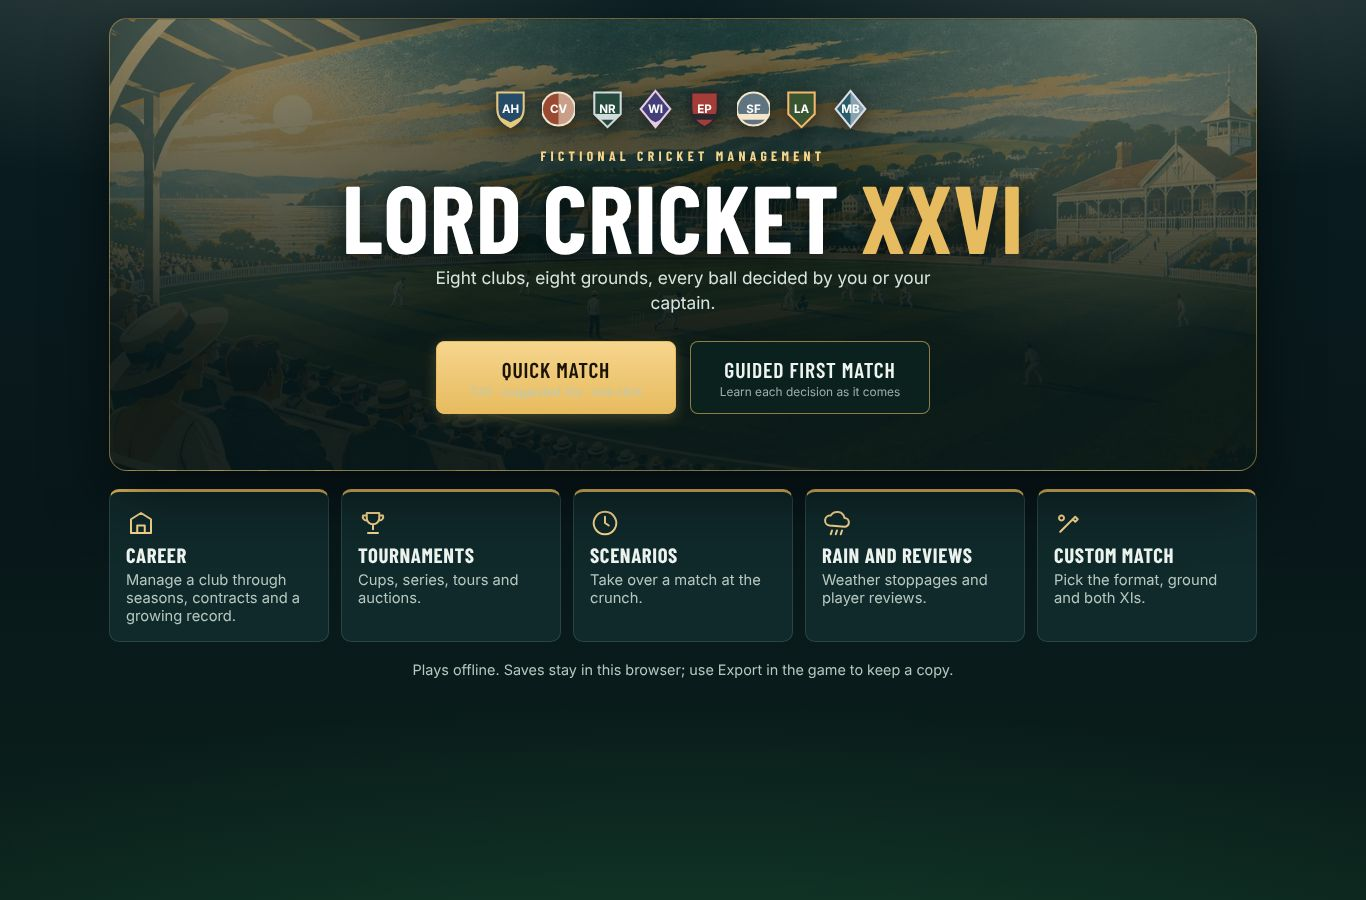
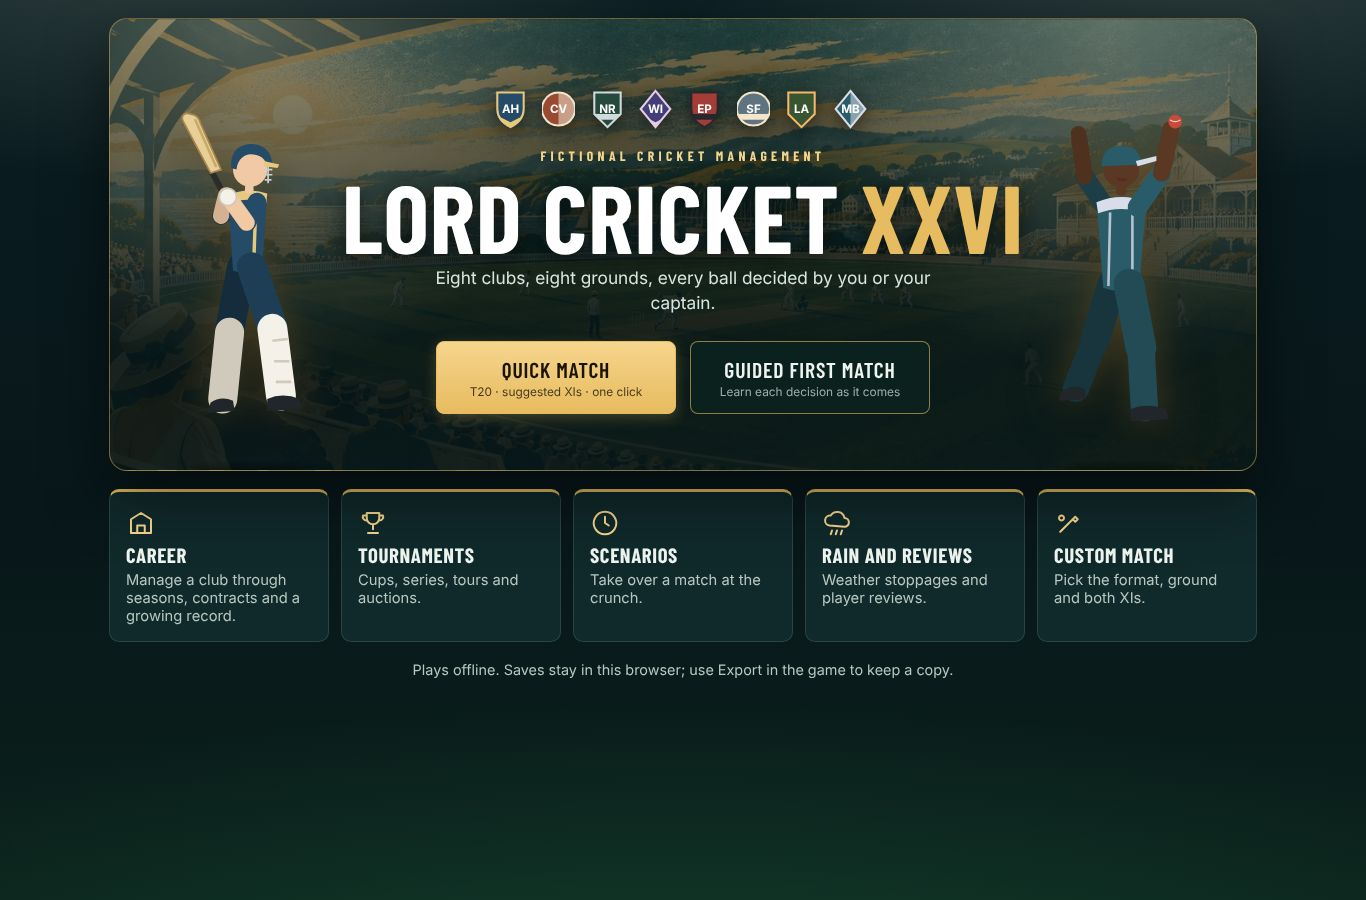
Free, code-drawn art: cricketer figures in club kits and richer procedural grounds
Owner order of 20 November 2026, step 3, under the owner's rule that everything stays free
and AI-made in the project.

- CricketerFigure: original full-figure cricketers drawn as SVG (a batter at the top of the
  backlift, a bowler celebrating a wicket) in any club's kit colours, with a darker far
  side for depth. Shown either side of the title screen and, faint, behind the player on
  the block in the auction room, in the spirit of the owner's reference menus without
  copying its layout or art.
- Procedural grounds gain a crowd in every stand, roof canopies, stars and soft light cones
  from the floodlights. Still drawn once per ground and turned into a WebP, so the extra
  detail costs nothing per ball.

Tests: tests/unit/cricketer-figure.test.ts (2); ground-art tests still pass. Browser specs
for tournaments (auction), title, scenarios, accessibility and pitch inspection pass in
Chromium (15).

Claude-Session: https://claude.ai/code/session_01JUtpt8sfBb8fADukiUJLPG

Changed region(s): [[0.7687, 0.1244, 0.8609, 0.4667], [0.123, 0.1244, 0.2152, 0.4667], [0.369, 0.4356, 0.3997, 0.4667]]

diff --git a/apps/web/src/world/CricketerFigure.tsx b/apps/web/src/world/CricketerFigure.tsx
@@ -1,0 +1,132 @@
+import { useId } from "react";
+
+/**
+ * Full-figure cricketers for menus (owner order of 20 November 2026, step 3: free, AI-made art). Original stylised
+ * vector figures in a club's kit colours: a batter at the top of the backlift and a bowler celebrating a wicket. Drawn
+ * from limbs as thick round-capped strokes with a darker shade for the far side, so they read as sports-poster
+ * pictograms rather than imitations of any real player or game. Always decorative.
+ */
+export type FigurePose = "batter" | "bowler";
+
+const SKINS = ["#f1c9a5", "#e0ac83", "#c68b5f", "#a86e45", "#7d4f30", "#5a3824"] as const;
+const HEX = /^#[0-9a-f]{6}$/i;
+
+function shade(hex: string, amount: number): string {
+  const n = parseInt(hex.slice(1), 16);
+  const f = (c: number) => Math.max(0, Math.min(255, Math.round(c * (1 + amount))));
+  const r = f((n >> 16) & 255), g = f((n >> 8) & 255), b = f(n & 255);
+  return `#${((1 << 24) | (r << 16) | (g << 8) | b).toString(16).slice(1)}`;
+}
+
+function seeded(seed: string): number {
+  let h = 0x811c9dc5;
+  for (let i = 0; i < seed.length; i += 1) h = Math.imul(h ^ seed.charCodeAt(i), 0x01000193) >>> 0;
+  return h;
+}
+
+type Limb = [number, number, number, number, number];
+const limb = ([x1, y1, x2, y2, w]: Limb, colour: string, key: string) => (
+  <line key={key} x1={x1} y1={y1} x2={x2} y2={y2} stroke={colour} strokeWidth={w} strokeLinecap="round" />
+);
+
+export function CricketerFigure(props: { pose: FigurePose; kit: readonly string[]; seed?: string; height?: number; className?: string }) {
+  const shirt = props.kit[0] && HEX.test(props.kit[0]) ? props.kit[0] : "#1f5a4a";
+  const trim = props.kit[1] && HEX.test(props.kit[1]) ? props.kit[1] : "#e7bb5f";
+  const skin = SKINS[seeded(props.seed ?? props.pose) % SKINS.length]!;
+  const far = shade(shirt, -0.32);
+  const trousers = shade(shirt, -0.18);
+  const trousersFar = shade(shirt, -0.42);
+  const id = useId();
+  const glow = `cf-glow-${id}`;
+  const height = props.height ?? 360;
+  return (
+    <svg className={props.className ?? "cricketer-figure"} viewBox="0 -24 240 444" width={(height * 240) / 444} height={height} aria-hidden="true" focusable="false">
+      <defs>
+        <radialGradient id={glow} cx="50%" cy="100%" r="60%">
+          <stop offset="0%" stopColor="#000" stopOpacity="0.45" />
+          <stop offset="100%" stopColor="#000" stopOpacity="0" />
+        </radialGradient>
+      </defs>
+      <ellipse cx="124" cy="404" rx="86" ry="12" fill={`url(#${glow})`} />
+      {props.pose === "batter" ? <Batter {...{ shirt, trim, skin, far, trousers, trousersFar }} /> : <Bowler {...{ shirt, trim, skin, far, trousers, trousersFar }} />}
+    </svg>
+  );
+}
+
+type Paint = { shirt: string; trim: string; skin: string; far: string; trousers: string; trousersFar: string };
+
+/** A right-hander at the top of the backlift, side-on, front shoulder pointing down the pitch (to the right). */
+function Batter({ shirt, trim, skin, far, trousers, trousersFar }: Paint) {
+  const pad = "#f4f1e8", padShade = "#cfcabb", glove = "#f4f1e8";
+  return (
+    <g>
+      {/* Bat, held high behind the head. */}
+      <line x1="96" y1="96" x2="80" y2="66" stroke="#2b2b2b" strokeWidth="7" strokeLinecap="round" />
+      <path d="M78 66 L46 6 Q42 -2 50 -4 L58 -2 Q64 0 66 8 L90 62 Z" fill="#e8cf98" stroke="#a9874c" strokeWidth="2" />
+      <path d="M60 4 L84 58" stroke="#c9a96a" strokeWidth="3" strokeLinecap="round" />
+      {/* Back (far) leg and pad. */}
+      {limb([114, 176, 100, 250, 34], trousersFar, "bt")}
+      {limb([100, 252, 92, 330, 34], padShade, "bp")}
+      <path d="M78 334 Q90 326 104 332 L106 344 L74 346 Z" fill="#20262a" />
+      {/* Back arm. */}
+      {limb([112, 100, 90, 116, 21], far, "ba1")}
+      {limb([90, 116, 96, 92, 19], shade(skin, -0.12), "ba2")}
+      {/* Torso. */}
+      <path d="M98 92 Q120 82 144 90 L138 180 Q120 188 104 180 Z" fill={shirt} />
+      <path d="M98 92 Q120 82 144 90 L143 101 Q120 93 99 102 Z" fill={trim} />
+      <path d="M131 92 L128 178" stroke={trim} strokeWidth="4" />
+      {/* Front leg and pad. */}
+      {limb([126, 176, 150, 246, 35], trousers, "ft")}
+      {limb([150, 248, 160, 326, 35], pad, "fp")}
+      <path d="M150 262 L168 260 M152 286 L170 286 M154 310 L172 310" stroke={padShade} strokeWidth="3" />
+      <path d="M144 330 Q162 322 182 330 L184 342 L144 344 Z" fill="#20262a" />
+      {/* Front arm across the chest to the handle. */}
+      {limb([132, 100, 120, 124, 22], shirt, "fa1")}
+      {limb([120, 124, 100, 96, 19], skin, "fa2")}
+      <circle cx="98" cy="94" r="10" fill={glove} stroke={padShade} strokeWidth="2" />
+      {/* Head and helmet, facing the bowler. */}
+      <circle cx="124" cy="62" r="20" fill={skin} />
+      <path d="M102 60 Q100 34 124 32 Q148 32 150 56 L146 58 Q140 44 124 44 Q110 46 108 62 Z" fill={shirt} />
+      <path d="M140 52 L158 56 L156 60 L140 58 Z" fill={trim} />
+      <path d="M140 62 L150 62 M140 68 L150 68 M141 74 L149 74 M145 58 L145 78" stroke="#c9cfd2" strokeWidth="2" fill="none" />
+      <rect x="118" y="80" width="10" height="10" rx="3" fill={skin} />
+    </g>
+  );
+}
+
+/** A bowler celebrating a wicket: arms up, ball in hand, mid-leap. */
+function Bowler({ shirt, trim, skin, far, trousers, trousersFar }: Paint) {
+  const skinFar = shade(skin, -0.12);
+  return (
+    <g>
+      {/* Far leg, kicked back. */}
+      {limb([112, 196, 92, 262, 34], trousersFar, "bl1")}
+      {limb([92, 262, 70, 318, 31], trousersFar, "bl2")}
+      <path d="M52 322 Q64 312 80 318 L82 330 L50 332 Z" fill="#20262a" />
+      {/* Far arm, raised. */}
+      {limb([106, 108, 80, 70, 22], far, "ba1")}
+      {limb([80, 70, 74, 26, 19], skinFar, "ba2")}
+      <circle cx="73" cy="20" r="9" fill={skinFar} />
+      {/* Torso, chest out. */}
+      <path d="M94 100 Q124 88 152 100 L144 200 Q122 208 102 200 Z" fill={shirt} />
+      <path d="M94 100 Q124 88 152 100 L150 113 Q123 103 96 113 Z" fill={trim} />
+      <path d="M110 112 L108 198 M136 112 L136 198" stroke={trim} strokeWidth="3" opacity="0.8" />
+      {/* Near leg, planted. */}
+      {limb([132, 196, 146, 270, 36], trousers, "fl1")}
+      {limb([146, 270, 150, 340, 32], trousers, "fl2")}
+      <path d="M134 342 Q152 334 176 342 L178 354 L134 356 Z" fill="#20262a" />
+      {/* Near arm, raised with the ball. */}
+      {limb([142, 106, 170, 66, 23], shirt, "fa1")}
+      {limb([170, 66, 180, 22, 20], skin, "fa2")}
+      <circle cx="181" cy="15" r="10" fill={skin} />
+      <circle cx="186" cy="6" r="8" fill="#c94a3a" />
+      <path d="M180 4 Q186 8 192 4" stroke="#f3d6c9" strokeWidth="1.5" fill="none" />
+      {/* Head, tipped back in the shout, with a cap. */}
+      <rect x="117" y="78" width="12" height="14" rx="4" fill={skin} />
+      <circle cx="123" cy="62" r="21" fill={skin} />
+      <path d="M100 58 Q100 34 124 34 Q146 34 146 56 Z" fill={shirt} />
+      <path d="M140 52 L164 46 L164 52 L142 58 Z" fill={trim} />
+      <path d="M116 72 Q124 80 132 72 Z" fill="#5b2a20" />
+    </g>
+  );
+}

diff --git a/apps/web/src/world/ground-art.ts b/apps/web/src/world/ground-art.ts
@@ -36,6 +36,7 @@ function rng(seed: number): () => number {
   };
 }
 
+const CROWD = ["#c94a3a", "#e7bb5f", "#3d6fa8", "#e8e2d0", "#5aa36b", "#8a5fb0", "#d9773f", "#2f3e46"] as const;
 const ROOFS = ["#7a4a2a", "#3d5a6b", "#6b2f2f", "#4b5b3a", "#5a4a6b", "#8a6a2a"] as const;
 const SKIES = [["#04101a", "#0c2b33"], ["#060f14", "#13302c"], ["#07121f", "#1a2c3d"], ["#050d10", "#162b25"]] as const;
 
@@ -55,8 +56,13 @@ export function stadiumSvg(name: string): string {
     const tall = 40 + Math.round(r() * 90);
     const top = horizon - tall;
     stands += `<path d="M${x} ${horizon + 6} L${x} ${top + 14} L${x + 14} ${top} L${x + w - 10} ${top} L${x + w} ${top + 12} L${x + w} ${horizon + 6} Z" fill="#0a1a1f"/>`;
-    for (let row = top + 18; row < horizon - 6; row += 14) {
-      if (r() < 0.55) windows += `<rect x="${x + 10}" y="${row}" width="${w - 20}" height="3" fill="#f4d58d" opacity="${(0.12 + r() * 0.22).toFixed(2)}"/>`;
+    // A roof canopy, then the crowd: rows of tiny figures in muted shirt colours, thinning towards the back.
+    stands += `<rect x="${x - 2}" y="${top - 5}" width="${w + 4}" height="7" rx="2" fill="#132a30"/>`;
+    for (let row = top + 12; row < horizon - 2; row += 7) {
+      const density = 0.35 + 0.5 * ((row - top) / Math.max(1, horizon - top));
+      for (let cx2 = x + 5; cx2 < x + w - 5; cx2 += 5) {
+        if (r() < density) windows += `<rect x="${cx2}" y="${row}" width="3" height="4" fill="${CROWD[Math.floor(r() * CROWD.length)]}" opacity="${(0.35 + r() * 0.45).toFixed(2)}"/>`;
+      }
     }
     x += w + 4;
   }
@@ -81,6 +87,10 @@ export function stadiumSvg(name: string): string {
   // Floodlights: four towers with lamp heads and glows.
   let lights = "";
   let glows = "";
+  let beams = "";
+  // Stars in the upper sky, faint behind the light haze.
+  let stars = "";
+  for (let k = 0; k < 46; k += 1) stars += `<circle cx="${Math.round(r() * 1600)}" cy="${Math.round(r() * 260)}" r="${(0.6 + r() * 1.1).toFixed(1)}" fill="#ffffff" opacity="${(0.15 + r() * 0.45).toFixed(2)}"/>`;
   const towers = [80 + r() * 120, 420 + r() * 120, 1060 + r() * 120, 1360 + r() * 140];
   towers.forEach((tx, i) => {
     const top = 70 + Math.round(r() * 70);
@@ -90,6 +100,8 @@ export function stadiumSvg(name: string): string {
     for (let k = 0; k < 4; k += 1) lights += `<rect x="${(tx - 30 + k * 19).toFixed(0)}" y="${top + 4}" width="15" height="11" fill="#fffbe8"/><rect x="${(tx - 30 + k * 19).toFixed(0)}" y="${top + 19}" width="15" height="11" fill="#fffbe8"/>`;
     lights += `</g>`;
     glows += `<circle cx="${(tx + 6).toFixed(0)}" cy="${top + 17}" r="260" fill="url(#glow)"/>`;
+    // A soft cone of light from the lamps down onto the field.
+    beams += `<path d="M${(tx - 20).toFixed(0)} ${top + 20} L${(tx + 32).toFixed(0)} ${top + 20} L${(800 + (tx - 800) * 0.35 + 260).toFixed(0)} 900 L${(800 + (tx - 800) * 0.35 - 260).toFixed(0)} 900 Z" fill="url(#beam)"/>`;
   });
 
   // The playing area: an oval outfield with mowing stripes, the boundary rope and the square.
@@ -107,9 +119,11 @@ export function stadiumSvg(name: string): string {
 <radialGradient id="glow"><stop offset="0" stop-color="#fff6d8" stop-opacity="0.42"/><stop offset="0.35" stop-color="#d9e8e0" stop-opacity="0.10"/><stop offset="1" stop-color="#d9e8e0" stop-opacity="0"/></radialGradient>
 <linearGradient id="grass" x1="0" y1="0" x2="0" y2="1"><stop offset="0" stop-color="#1f5a3a"/><stop offset="0.45" stop-color="#2c7a48"/><stop offset="1" stop-color="#1a4a30"/></linearGradient>
 <radialGradient id="pool" cx="0.5" cy="0.25" r="0.75"><stop offset="0" stop-color="#ffffff" stop-opacity="0.16"/><stop offset="1" stop-color="#ffffff" stop-opacity="0"/></radialGradient>
+<linearGradient id="beam" x1="0" y1="0" x2="0" y2="1"><stop offset="0" stop-color="#fff8e0" stop-opacity="0.1"/><stop offset="1" stop-color="#fff8e0" stop-opacity="0"/></linearGradient>
 <clipPath id="oval"><ellipse cx="${cx}" cy="${fieldTop + 480}" rx="1150" ry="500"/></clipPath>
 </defs>
 <rect width="1600" height="900" fill="url(#sky)"/>
+${stars}
 ${glows}
 ${lights}
 ${stands}${windows}
@@ -118,6 +132,7 @@ ${pavilion}
 <ellipse cx="${cx}" cy="${fieldTop + 480}" rx="1100" ry="468" fill="none" stroke="#f3f0e2" stroke-opacity="0.55" stroke-width="3"/>
 <path d="M${cx - 22} ${fieldTop + 150} L${cx + 22} ${fieldTop + 150} L${cx + 60} 900 L${cx - 60} 900 Z" fill="#cdbb8a" opacity="0.85"/>
 <path d="M${cx - 28} ${fieldTop + 175} L${cx + 28} ${fieldTop + 175}" stroke="#ffffff" stroke-width="2" opacity="0.8"/>
+${beams}
 </svg>`;
 }
 

diff --git a/apps/web/src/tournament/TournamentsApp.tsx b/apps/web/src/tournament/TournamentsApp.tsx
@@ -10,6 +10,7 @@ import { isKnockoutStage, tournamentMatchIdentity, tournamentResultFromSession }
 import type { TournamentWorkerRequest, TournamentWorkerResponse } from "./tournament.worker.js";
 import { buildUserCompetition, parseUserCompetitionPack, userCompetitionPackText, type StructureChoice, type UserCompetitionDraft } from "./user-competitions.js";
 import { TeamCrest } from "../world/TeamCrest.js";
+import { CricketerFigure } from "../world/CricketerFigure.js";
 import { PlayerPortrait, RatingBadge, RoleChip } from "../world/PlayerPortrait.js";
 import { playerStrengths } from "../world/player-visuals.js";
 import { generatedRunRoster, generatedSelections, tourCompetition, touringTeamId, type GeneratedSquad } from "./generated-roster.js";
@@ -944,6 +945,7 @@ function AuctionPanel(props: {
           <h3>Current player</h3>
           {lotPlayer && strengths ? (
             <div className="auction-lot-card">
+              <CricketerFigure className="auction-lot-figure" pose={lotPlayer.role === "BOWLER" ? "bowler" : "batter"} kit={lotTeamKit} seed={lotPlayer.playerId} height={300} />
               <div className="auction-lot-top">
                 <RatingBadge rating={playerRating(lotPlayer, state.format)} decorative />
                 <PlayerPortrait playerId={lotPlayer.playerId} role={lotPlayer.role} kit={lotTeamKit} size={124} />

diff --git a/tests/unit/cricketer-figure.test.ts b/tests/unit/cricketer-figure.test.ts
@@ -1,0 +1,21 @@
+import { describe, expect, it } from "vitest";
+import { renderToStaticMarkup } from "react-dom/server";
+import { createElement } from "react";
+import { CricketerFigure } from "../../apps/web/src/world/CricketerFigure.js";
+
+describe("cricketer figures", () => {
+  it("draw both poses in the club's kit, decorative and self-contained", () => {
+    for (const pose of ["batter", "bowler"] as const) {
+      const svg = renderToStaticMarkup(createElement(CricketerFigure, { pose, kit: ["#123456", "#abcdef"], seed: "p001" }));
+      expect(svg).toContain('aria-hidden="true"');
+      expect(svg).toContain("#123456");
+      expect(svg).toContain("#abcdef");
+      expect(svg).not.toMatch(/href=|https?:|NaN|undefined/);
+    }
+  });
+  it("falls back to house colours when a kit colour is not a plain hex value", () => {
+    const svg = renderToStaticMarkup(createElement(CricketerFigure, { pose: "batter", kit: ["red", "url(x)"] }));
+    expect(svg).not.toContain("url(x)");
+    expect(svg).toContain("#1f5a4a");
+  });
+});

diff --git a/apps/web/src/floodlit.css b/apps/web/src/floodlit.css
@@ -489,3 +489,12 @@ body .captain-station .field-read { color: var(--fl-muted); }
 .guided-step { font: 700 0.75em var(--fl-display); letter-spacing: 0.18em; text-transform: uppercase; color: #ffe6b0; }
 .guided-actions { display: flex; gap: 10px; align-items: center; }
 .title-actions .title-play small { color: var(--fl-gold-ink); opacity: 0.8; }
+
+/* Full-figure cricketers (owner order, step 3): original, code-drawn art in club kits for the menus. */
+.title-figure { position: absolute; bottom: -6px; z-index: -1; filter: drop-shadow(0 0 18px rgba(231, 187, 95, 0.28)) drop-shadow(0 10px 20px rgba(0, 0, 0, 0.6)); }
+.title-figure-left { left: 3%; }
+.title-figure-right { right: 3%; }
+@media (max-width: 980px) { .title-figure { opacity: 0.35; } }
+@media (max-width: 640px) { .title-figure { display: none; } }
+.auction-lot-card { position: relative; isolation: isolate; overflow: hidden; }
+.auction-lot-figure { position: absolute; right: -70px; bottom: -14px; z-index: -1; opacity: 0.22; pointer-events: none; }

diff --git a/apps/web/src/TitleScreen.tsx b/apps/web/src/TitleScreen.tsx
@@ -1,4 +1,5 @@
 import { TeamCrest } from "./world/TeamCrest.js";
+import { CricketerFigure } from "./world/CricketerFigure.js";
 import { careerWorld } from "./career/world-state.js";
 
 /** Session flag read by the exhibition setup: start a T20 with the suggested XIs straight away (valid for a minute). */
@@ -36,6 +37,8 @@ export function TitleScreen() {
   return (
     <main className="title-screen" data-testid="title-screen">
       <div className="title-hero">
+        <CricketerFigure className="title-figure title-figure-left" pose="batter" kit={teams[0]?.colours ?? []} seed="title-batter" height={380} />
+        <CricketerFigure className="title-figure title-figure-right" pose="bowler" kit={teams[7]?.colours ?? teams[1]?.colours ?? []} seed="title-bowler" height={380} />
         <div className="title-crests" aria-hidden="true">
           {teams.map((team) => (
             <TeamCrest key={team.teamId} teamId={team.teamId} name={team.name} colours={team.colours ?? []} size={40} decorative />
